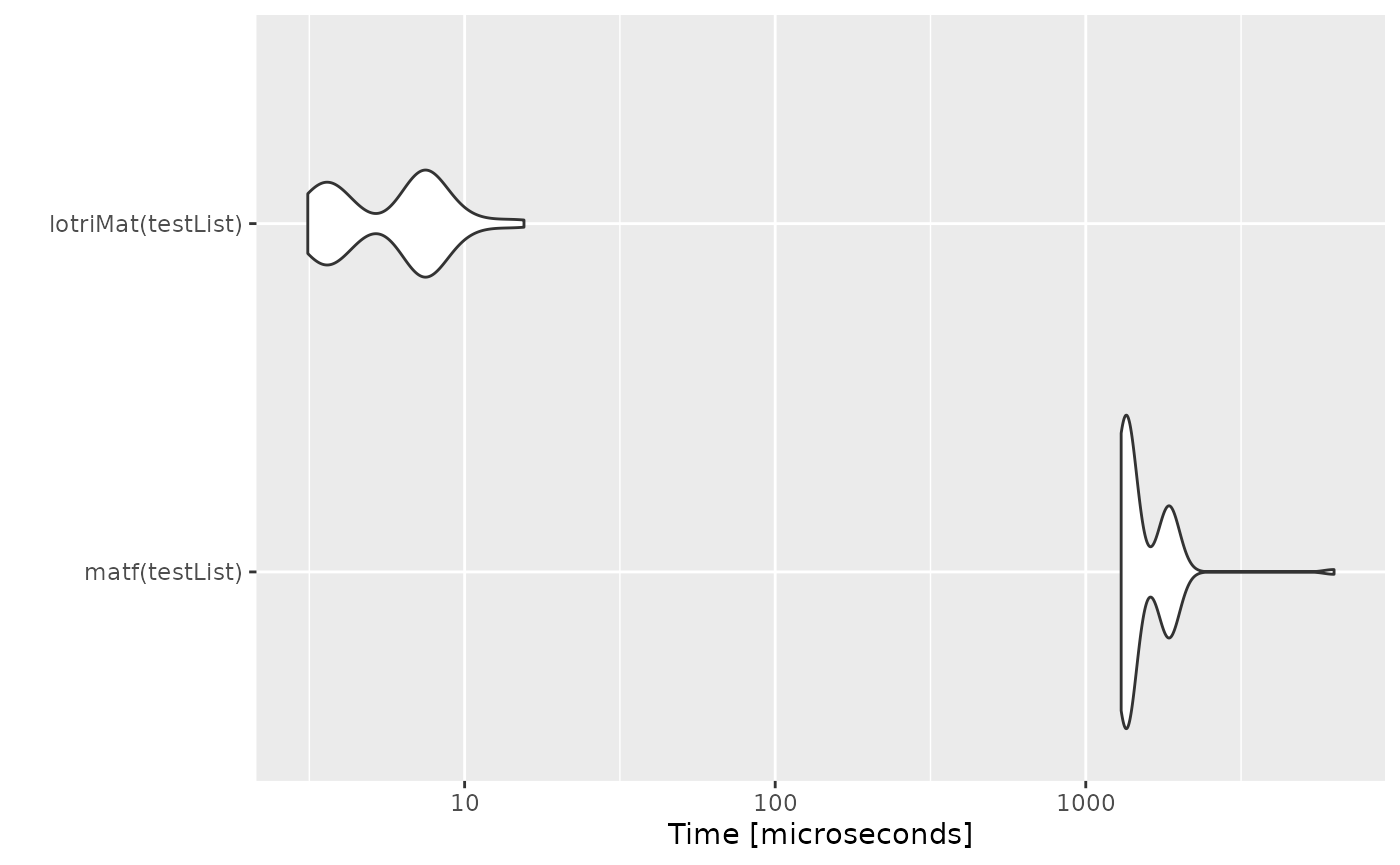
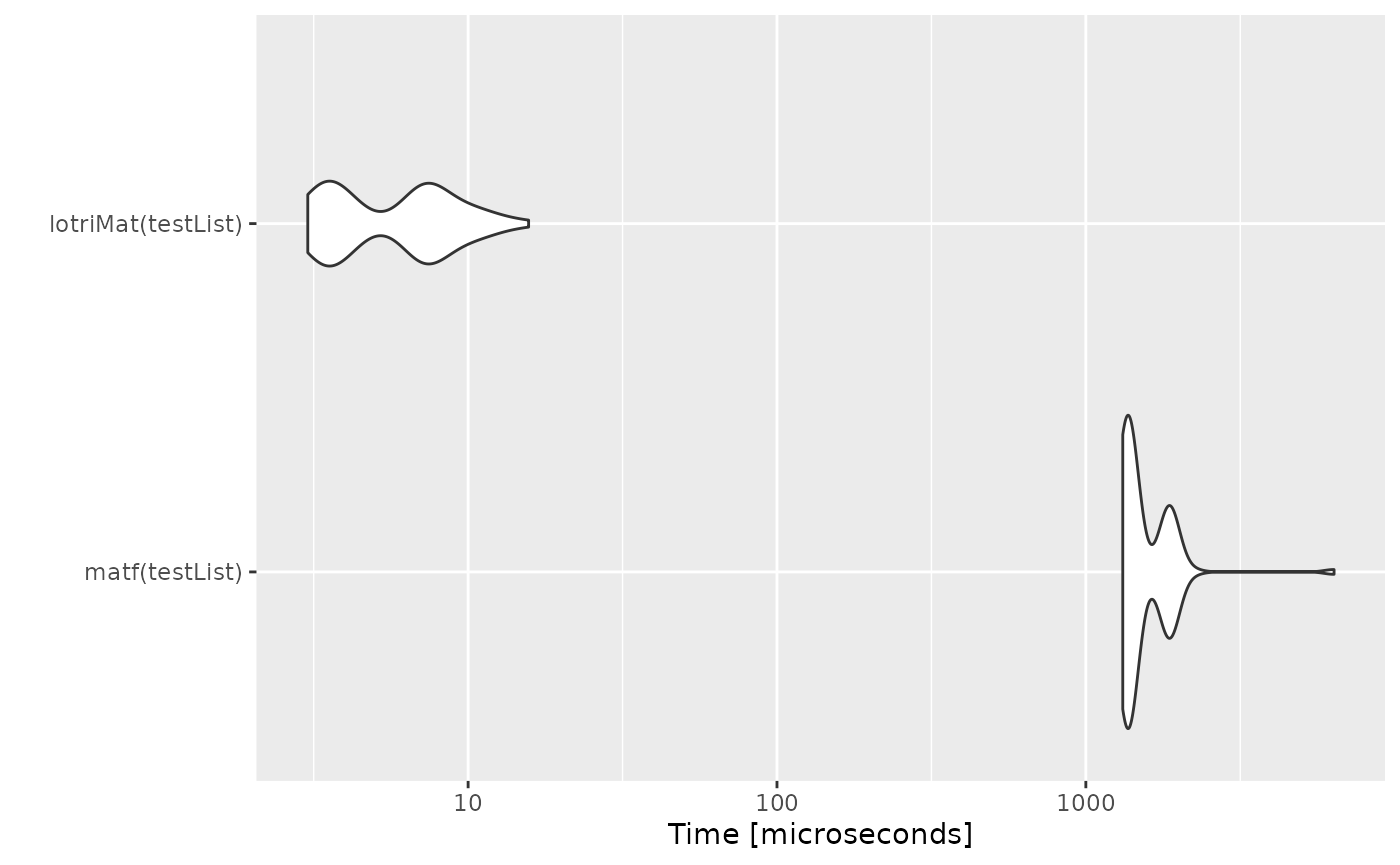
Deploying to gh-pages from @ nlmixr2/lotri@221c5388f41200e12f8c6a2bc4acfd3d2f2a2322 🚀

diff --git a/reference/dot-lotriPointers.html b/reference/dot-lotriPointers.html
@@ -59,34 +59,34 @@
     <div class="sourceCode"><pre class="sourceCode r"><code><span class="r-in"><span></span></span>
 <span class="r-in"><span><span class="fu">.lotriPointers</span><span class="op">(</span><span class="op">)</span></span></span>
 <span class="r-out co"><span class="r-pr">#&gt;</span> $lotriLstToMat</span>
-<span class="r-out co"><span class="r-pr">#&gt;</span> &lt;pointer: 0x7fc81b9e2f40&gt;</span>
+<span class="r-out co"><span class="r-pr">#&gt;</span> &lt;pointer: 0x7f6440948f40&gt;</span>
 <span class="r-out co"><span class="r-pr">#&gt;</span> </span>
 <span class="r-out co"><span class="r-pr">#&gt;</span> $asLotriMat</span>
-<span class="r-out co"><span class="r-pr">#&gt;</span> &lt;pointer: 0x7fc81b9e11b0&gt;</span>
+<span class="r-out co"><span class="r-pr">#&gt;</span> &lt;pointer: 0x7f64409471b0&gt;</span>
 <span class="r-out co"><span class="r-pr">#&gt;</span> </span>
 <span class="r-out co"><span class="r-pr">#&gt;</span> $lotriSep</span>
-<span class="r-out co"><span class="r-pr">#&gt;</span> &lt;pointer: 0x7fc81b9e4f40&gt;</span>
+<span class="r-out co"><span class="r-pr">#&gt;</span> &lt;pointer: 0x7f644094af40&gt;</span>
 <span class="r-out co"><span class="r-pr">#&gt;</span> </span>
 <span class="r-out co"><span class="r-pr">#&gt;</span> $lotriAllNames</span>
-<span class="r-out co"><span class="r-pr">#&gt;</span> &lt;pointer: 0x7fc81b9e5510&gt;</span>
+<span class="r-out co"><span class="r-pr">#&gt;</span> &lt;pointer: 0x7f644094b510&gt;</span>
 <span class="r-out co"><span class="r-pr">#&gt;</span> </span>
 <span class="r-out co"><span class="r-pr">#&gt;</span> $lotriGetBounds</span>
-<span class="r-out co"><span class="r-pr">#&gt;</span> &lt;pointer: 0x7fc81b9e1750&gt;</span>
+<span class="r-out co"><span class="r-pr">#&gt;</span> &lt;pointer: 0x7f6440947750&gt;</span>
 <span class="r-out co"><span class="r-pr">#&gt;</span> </span>
 <span class="r-out co"><span class="r-pr">#&gt;</span> $lotriMaxNu</span>
-<span class="r-out co"><span class="r-pr">#&gt;</span> &lt;pointer: 0x7fc81b9e4a10&gt;</span>
+<span class="r-out co"><span class="r-pr">#&gt;</span> &lt;pointer: 0x7f644094aa10&gt;</span>
 <span class="r-out co"><span class="r-pr">#&gt;</span> </span>
 <span class="r-out co"><span class="r-pr">#&gt;</span> $isLotri</span>
-<span class="r-out co"><span class="r-pr">#&gt;</span> &lt;pointer: 0x7fc81b9e53f0&gt;</span>
+<span class="r-out co"><span class="r-pr">#&gt;</span> &lt;pointer: 0x7f644094b3f0&gt;</span>
 <span class="r-out co"><span class="r-pr">#&gt;</span> </span>
 <span class="r-out co"><span class="r-pr">#&gt;</span> $lotriRcm</span>
-<span class="r-out co"><span class="r-pr">#&gt;</span> &lt;pointer: 0x7fc81b9f0490&gt;</span>
+<span class="r-out co"><span class="r-pr">#&gt;</span> &lt;pointer: 0x7f6440956490&gt;</span>
 <span class="r-out co"><span class="r-pr">#&gt;</span> </span>
 <span class="r-out co"><span class="r-pr">#&gt;</span> $lotriNearPDc</span>
-<span class="r-out co"><span class="r-pr">#&gt;</span> &lt;pointer: 0x7fc81b9ea7f0&gt;</span>
+<span class="r-out co"><span class="r-pr">#&gt;</span> &lt;pointer: 0x7f64409507f0&gt;</span>
 <span class="r-out co"><span class="r-pr">#&gt;</span> </span>
 <span class="r-out co"><span class="r-pr">#&gt;</span> $lotriNearPDsexp</span>
-<span class="r-out co"><span class="r-pr">#&gt;</span> &lt;pointer: 0x7fc81b9ead60&gt;</span>
+<span class="r-out co"><span class="r-pr">#&gt;</span> &lt;pointer: 0x7f6440950d60&gt;</span>
 <span class="r-out co"><span class="r-pr">#&gt;</span> </span>
 </code></pre></div>
     </div>

diff --git a/articles/lotri-motivation.html b/articles/lotri-motivation.html
@@ -65,7 +65,7 @@
                         <h4 data-toc-skip class="author">Matthew
 Fidler</h4>
             
-            <h4 data-toc-skip class="date">2024-08-30</h4>
+            <h4 data-toc-skip class="date">2024-08-31</h4>
       
       <small class="dont-index">Source: <a href="https://github.com/nlmixr2/lotri/blob/main/vignettes/lotri-motivation.Rmd" class="external-link"><code>vignettes/lotri-motivation.Rmd</code></a></small>
       <div class="d-none name"><code>lotri-motivation.Rmd</code></div>
@@ -228,9 +228,9 @@ concatenation with <code>lotriMat</code></p>
 <span></span>
 <span><span class="fu"><a href="https://rdrr.io/r/base/print.html" class="external-link">print</a></span><span class="op">(</span><span class="va">mb</span><span class="op">)</span></span>
 <span><span class="co">#&gt; Unit: microseconds</span></span>
-<span><span class="co">#&gt;                expr      min       lq       mean   median       uq      max</span></span>
-<span><span class="co">#&gt;      matf(testList) 1299.953 1337.949 1552.36510 1367.555 1828.564 6301.940</span></span>
-<span><span class="co">#&gt;  lotriMat(testList)    3.126    3.707    6.23025    6.898    7.654   15.529</span></span>
+<span><span class="co">#&gt;                expr      min        lq       mean   median       uq      max</span></span>
+<span><span class="co">#&gt;      matf(testList) 1316.856 1352.3410 1572.07512 1392.997 1843.773 6363.184</span></span>
+<span><span class="co">#&gt;  lotriMat(testList)    3.026    3.5815    6.24412    6.803    7.729   15.699</span></span>
 <span><span class="co">#&gt;  neval</span></span>
 <span><span class="co">#&gt;    100</span></span>
 <span><span class="co">#&gt;    100</span></span>
